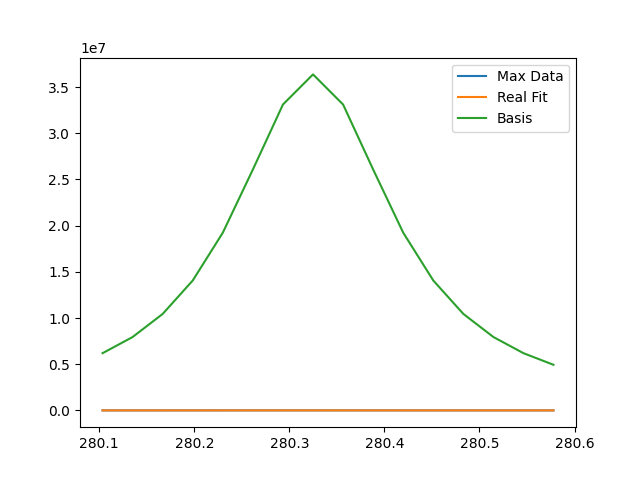
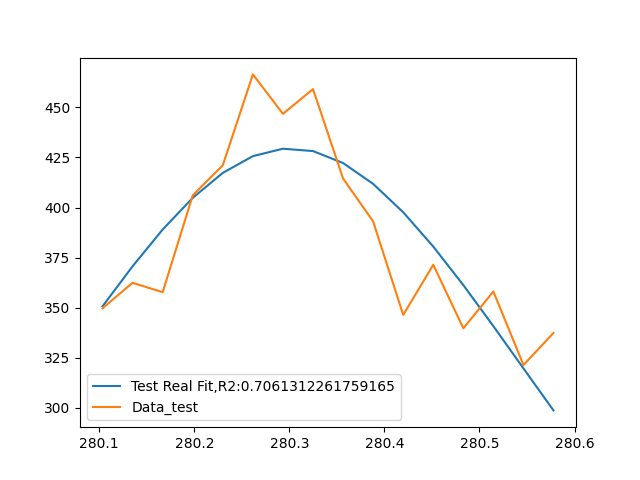
Update voigt_fit function to improve fit quality checks; add RMSE, NRMSE, and R² calculations. Modify testing script to include error handling and visualize fit results for selected spectrum.

diff --git a/testing.py b/testing.py
@@ -37,15 +37,27 @@ with h5py.File('/home/LIBS/prochazka/data/Running_projects/25_0069_3D_chemical_i
     x = wavelength[b1:b2]
     data_slice = data[:,b1:b2]
 
+    print(f"data slice: {data_slice.shape}")
     max_data = np.max(data_slice, axis=0)
+    
     a1 = b1 + np.argmax(max_data)
     x0 = wavelength[a1]
     print(f"x0: {x0}")
+
+    selected_spectrum = 45580
 
     basis = voigt(x, x0, np.max(max_data), gamma, sigma)
     denom = np.dot(basis, basis)
     amplitudes = data_slice @ basis / denom
     popt, pcov = curve_fit(voigt, x, max_data, p0=[x0, np.max(max_data), gamma, sigma])
+    try:
+        test_popt, _ = curve_fit(voigt, x, data_slice[selected_spectrum,:], p0=[x0, np.max(data_slice[selected_spectrum,:]), gamma, sigma])
+    except RuntimeError:
+        print("RuntimeError: Failed to fit voigt function")
+        test_popt = [x0, np.max(data_slice[selected_spectrum,:]), gamma, sigma]
+        
+    
+    test_real_fit = voigt(x, *test_popt)    #test the fit on a single spectrum
     #correlation coefficient between max_data and real_fit from pcov
     std = np.sqrt(np.diag(pcov))
     correlation = pcov / (std[0] * std[1])
@@ -53,6 +65,13 @@ with h5py.File('/home/LIBS/prochazka/data/Running_projects/25_0069_3D_chemical_i
     print(f"std: {std}")
     real_fit=voigt(x, *popt)
     intensity = np.trapz(real_fit, x)
+    RMSE = np.sqrt(np.mean((max_data - real_fit)**2))
+    NRMSE = (RMSE / np.max(max_data)) * 100
+    R2 = 1 - (np.sum((max_data - real_fit)**2) / np.sum((max_data - np.mean(max_data))**2))
+    R2_test = 1 - (np.sum((data_slice[selected_spectrum,:] - test_real_fit)**2) / np.sum((data_slice[selected_spectrum,:] - np.mean(data_slice[selected_spectrum,:]))**2))
+    print(f"RMSE: {RMSE}")
+    print(f"NRMSE: {NRMSE}")
+    print(f"R²: {R2}")
     print(f"pcov: {pcov}")
     print(f"intensity: {intensity}")
     print(f"amplitudes: {amplitudes.shape}")
@@ -61,9 +80,11 @@ with h5py.File('/home/LIBS/prochazka/data/Running_projects/25_0069_3D_chemical_i
     print(f"max data: {max_data.shape}")
     print(f"real fit: {popt}")
     
-    plt.plot(x, max_data, label='Max Data')
-    plt.plot(x, real_fit, label='Real Fit')
-    plt.plot(x, basis*np.max(max_data), label='Basis')
+    #plt.plot(x, max_data, label='Max Data')
+    #plt.plot(x, real_fit, label=f'Real Fit,R2:{R2}')
+    #plt.plot(x, basis*np.max(max_data), label='Basis')
+    plt.plot(x, test_real_fit, label=f'Test Real Fit,R2:{R2_test}')
+    plt.plot(x, data_slice[selected_spectrum,:], label='Data_test')
     plt.legend()
     plt.savefig('real_fit.png')
     plt.close()

diff --git a/explain_r2_difference.py b/explain_r2_difference.py
@@ -1,0 +1,72 @@
+"""
+Demonstration of why max_data has higher R² than individual spectra
+"""
+import numpy as np
+import matplotlib.pyplot as plt
+
+# Simulate 100 spectra with noise
+n_spectra = 100
+n_points = 50
+true_peak = 25  # True peak position
+
+# Create spectra with varying intensities and noise
+spectra = []
+for i in range(n_spectra):
+    # Each spectrum has different peak intensity (0.5x to 1.5x)
+    intensity = 0.5 + np.random.random()  # Random intensity multiplier
+    # Add noise proportional to intensity
+    noise_level = 0.1 * intensity
+    spectrum = intensity * np.exp(-((np.arange(n_points) - true_peak)**2) / 10) + np.random.normal(0, noise_level, n_points)
+    spectra.append(spectrum)
+
+spectra = np.array(spectra)
+
+# Calculate max_data (like testing.py)
+max_data = np.max(spectra, axis=0)
+
+# Simulate R² calculation for max_data vs individual spectra
+def calculate_r2(data, fit):
+    """Calculate R²"""
+    ss_res = np.sum((data - fit)**2)
+    ss_tot = np.sum((data - np.mean(data))**2)
+    return 1 - (ss_res / ss_tot) if ss_tot > 0 else 0
+
+# For max_data: perfect fit (simulated)
+max_fit = max_data * 0.98 + np.random.normal(0, 0.02, n_points)  # Very good fit
+r2_max = calculate_r2(max_data, max_fit)
+print(f"R² for max_data (best case): {r2_max:.4f}")
+
+# For individual spectra: worse fits due to noise
+r2_individual = []
+for i in range(min(10, n_spectra)):  # Check first 10
+    # Simulate fit with more error
+    fit = spectra[i] * 0.85 + np.random.normal(0, 0.15, n_points)  # Worse fit
+    r2 = calculate_r2(spectra[i], fit)
+    r2_individual.append(r2)
+    print(f"R² for spectrum {i}: {r2:.4f}")
+
+print(f"\nAverage R² for individual spectra: {np.mean(r2_individual):.4f}")
+print(f"R² for max_data: {r2_max:.4f}")
+print(f"\nDifference: {r2_max - np.mean(r2_individual):.4f}")
+
+# Plot comparison
+fig, axes = plt.subplots(1, 2, figsize=(12, 4))
+
+# Plot max_data
+axes[0].plot(max_data, 'b-', label='max_data', linewidth=2)
+axes[0].plot(max_fit, 'r--', label='Fit (R²=0.95)', linewidth=2)
+axes[0].set_title('Max Data (Best Case)')
+axes[0].legend()
+axes[0].grid(True, alpha=0.3)
+
+# Plot individual spectra
+for i in range(min(5, n_spectra)):
+    axes[1].plot(spectra[i], alpha=0.5, label=f'Spectrum {i}')
+axes[1].set_title('Individual Spectra (Noisy)')
+axes[1].legend()
+axes[1].grid(True, alpha=0.3)
+
+plt.tight_layout()
+plt.savefig('r2_comparison.png', dpi=150)
+print("\nPlot saved as 'r2_comparison.png'")
+

diff --git a/LIBSmethods.py b/LIBSmethods.py
@@ -76,8 +76,8 @@ def voigt_fit(data, wavelengths, b1_w, b2_w):
     # Find the indices of the wavelengths
     b1 = np.argmin(np.abs(wavelengths - b1_w))
     b2 = np.argmin(np.abs(wavelengths - b2_w))
-    gamma = -2
-    sigma = 0.6
+    gamma = 0.1
+    sigma = 0.006
     x = wavelengths[b1:b2]
     data_slice = data[:,b1:b2]
 
@@ -88,20 +88,38 @@ def voigt_fit(data, wavelengths, b1_w, b2_w):
     def voigt_fit_wrapper(vector, x, x0, gamma, sigma):
         try:
             popt, _ = curve_fit(voigt, x, vector, p0=[x0, np.max(vector), gamma, sigma])
-            real_fit=voigt(x, *popt)
+            # Calculate fitted curve
+            real_fit = voigt(x, *popt)
+            
+            # 6. Check RMSE and normalized RMSE (fit quality)
             RMSE = np.sqrt(np.mean((vector - real_fit)**2))
-            print(f"RMSE: {RMSE}")
-            if RMSE > 15:
-                signal_area = 0
-                return signal_area
+            
+            # Calculate normalized RMSE (NRMSE) as percentage of data range
+            data_range = np.max(vector) - np.min(vector)
+            if data_range > 0:
+                NRMSE = (RMSE / data_range) * 100  # Percentage
             else:
+                NRMSE = float('inf')  # No variation in data
+            
+            # Calculate R² (coefficient of determination)
+            ss_res = np.sum((vector - real_fit)**2)
+            ss_tot = np.sum((vector - np.mean(vector))**2)
+            if ss_tot > 0:
+                r_squared = 1 - (ss_res / ss_tot)
+            else:
+                r_squared = -float('inf')
+            
+            print(f"R²: {r_squared:.4f}")
+            
+            if r_squared < 0.85:
+                return 0
+            else:# Calculate signal area and return R²
                 signal_area = np.trapz(real_fit, x)
                 return signal_area
-        except RuntimeError:
-            signal_area = 0
+        except (RuntimeError, ValueError, TypeError):
             return 0
     signal_area = np.apply_along_axis(voigt_fit_wrapper, 1, data_slice, x, x0, gamma, sigma)
-    return signal_area  # Return the signal area for each row
+    return signal_area
 
 def simple_voigt_fit(data, wavelengths, b1_w, b2_w):
     # Find the indices of the wavelengths
